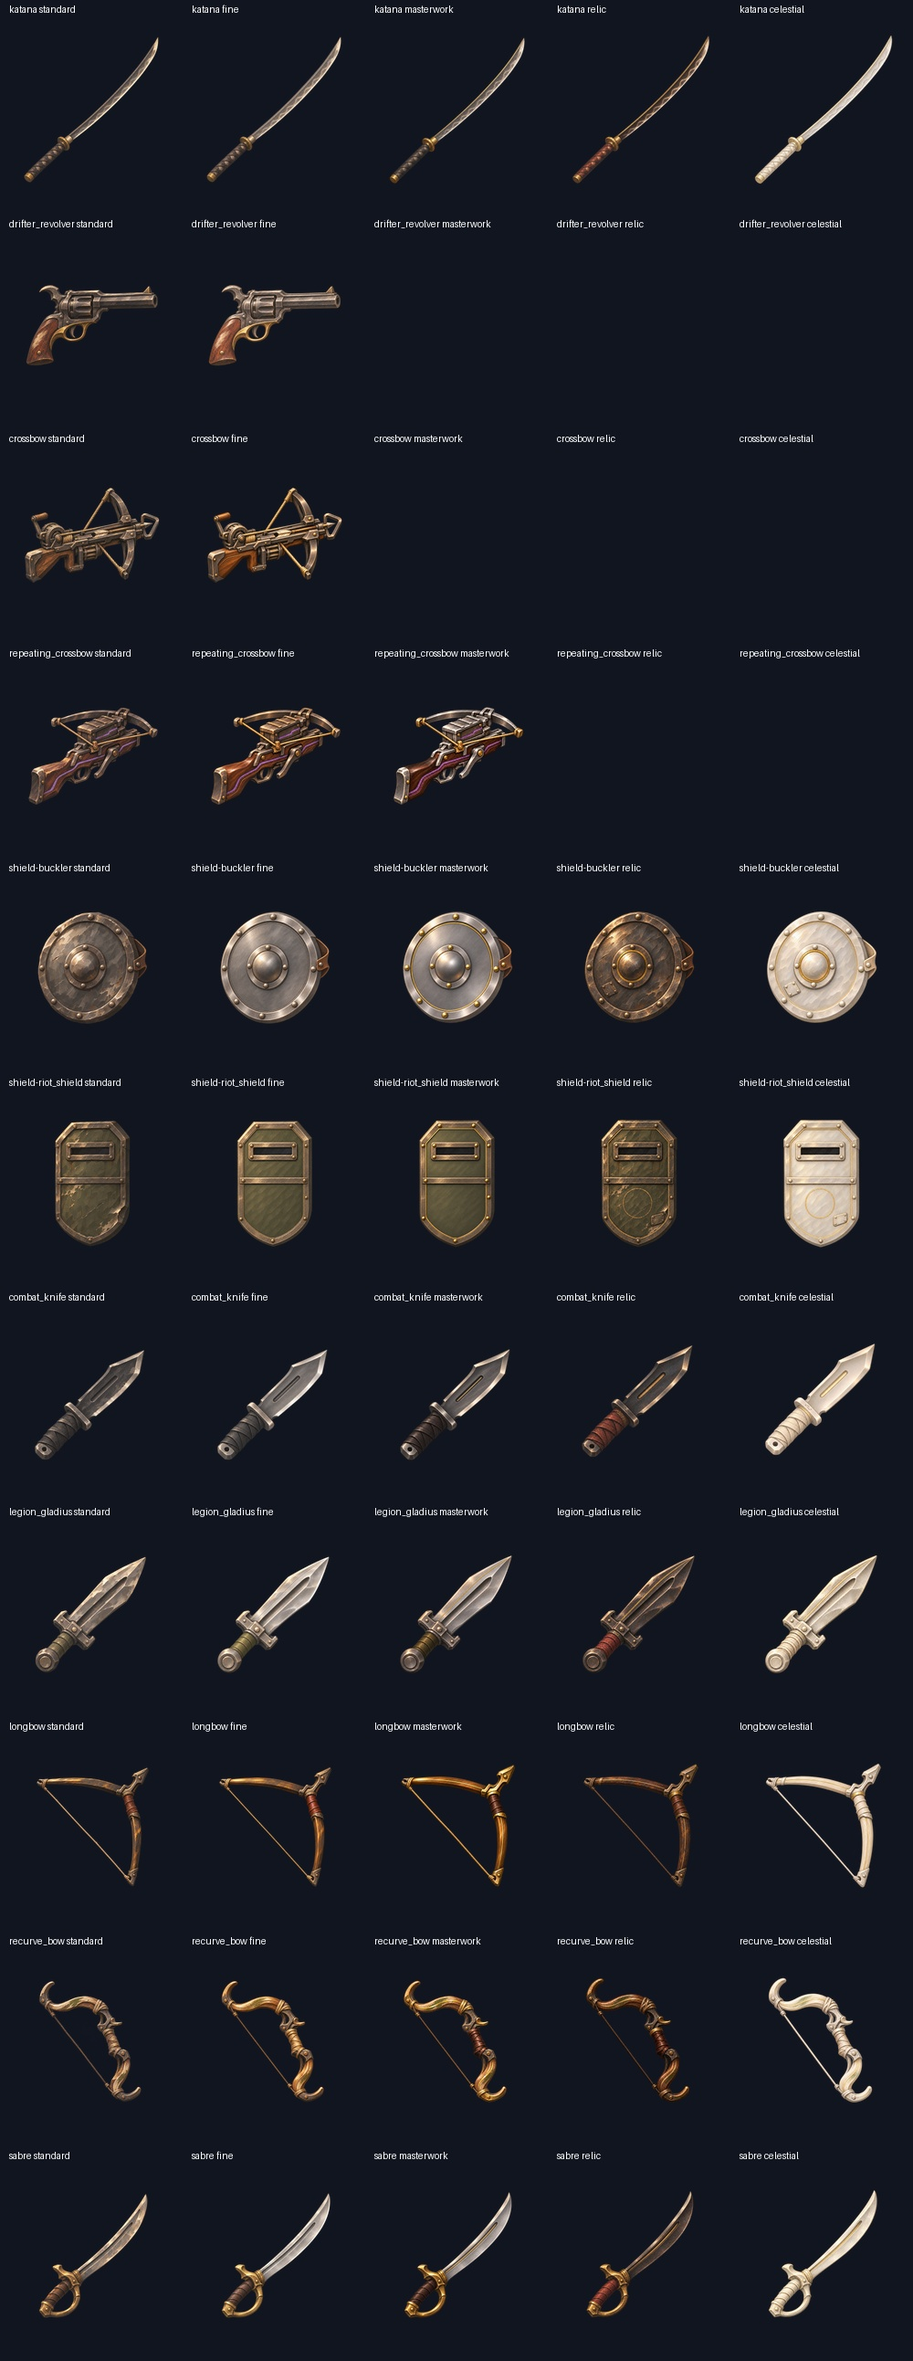
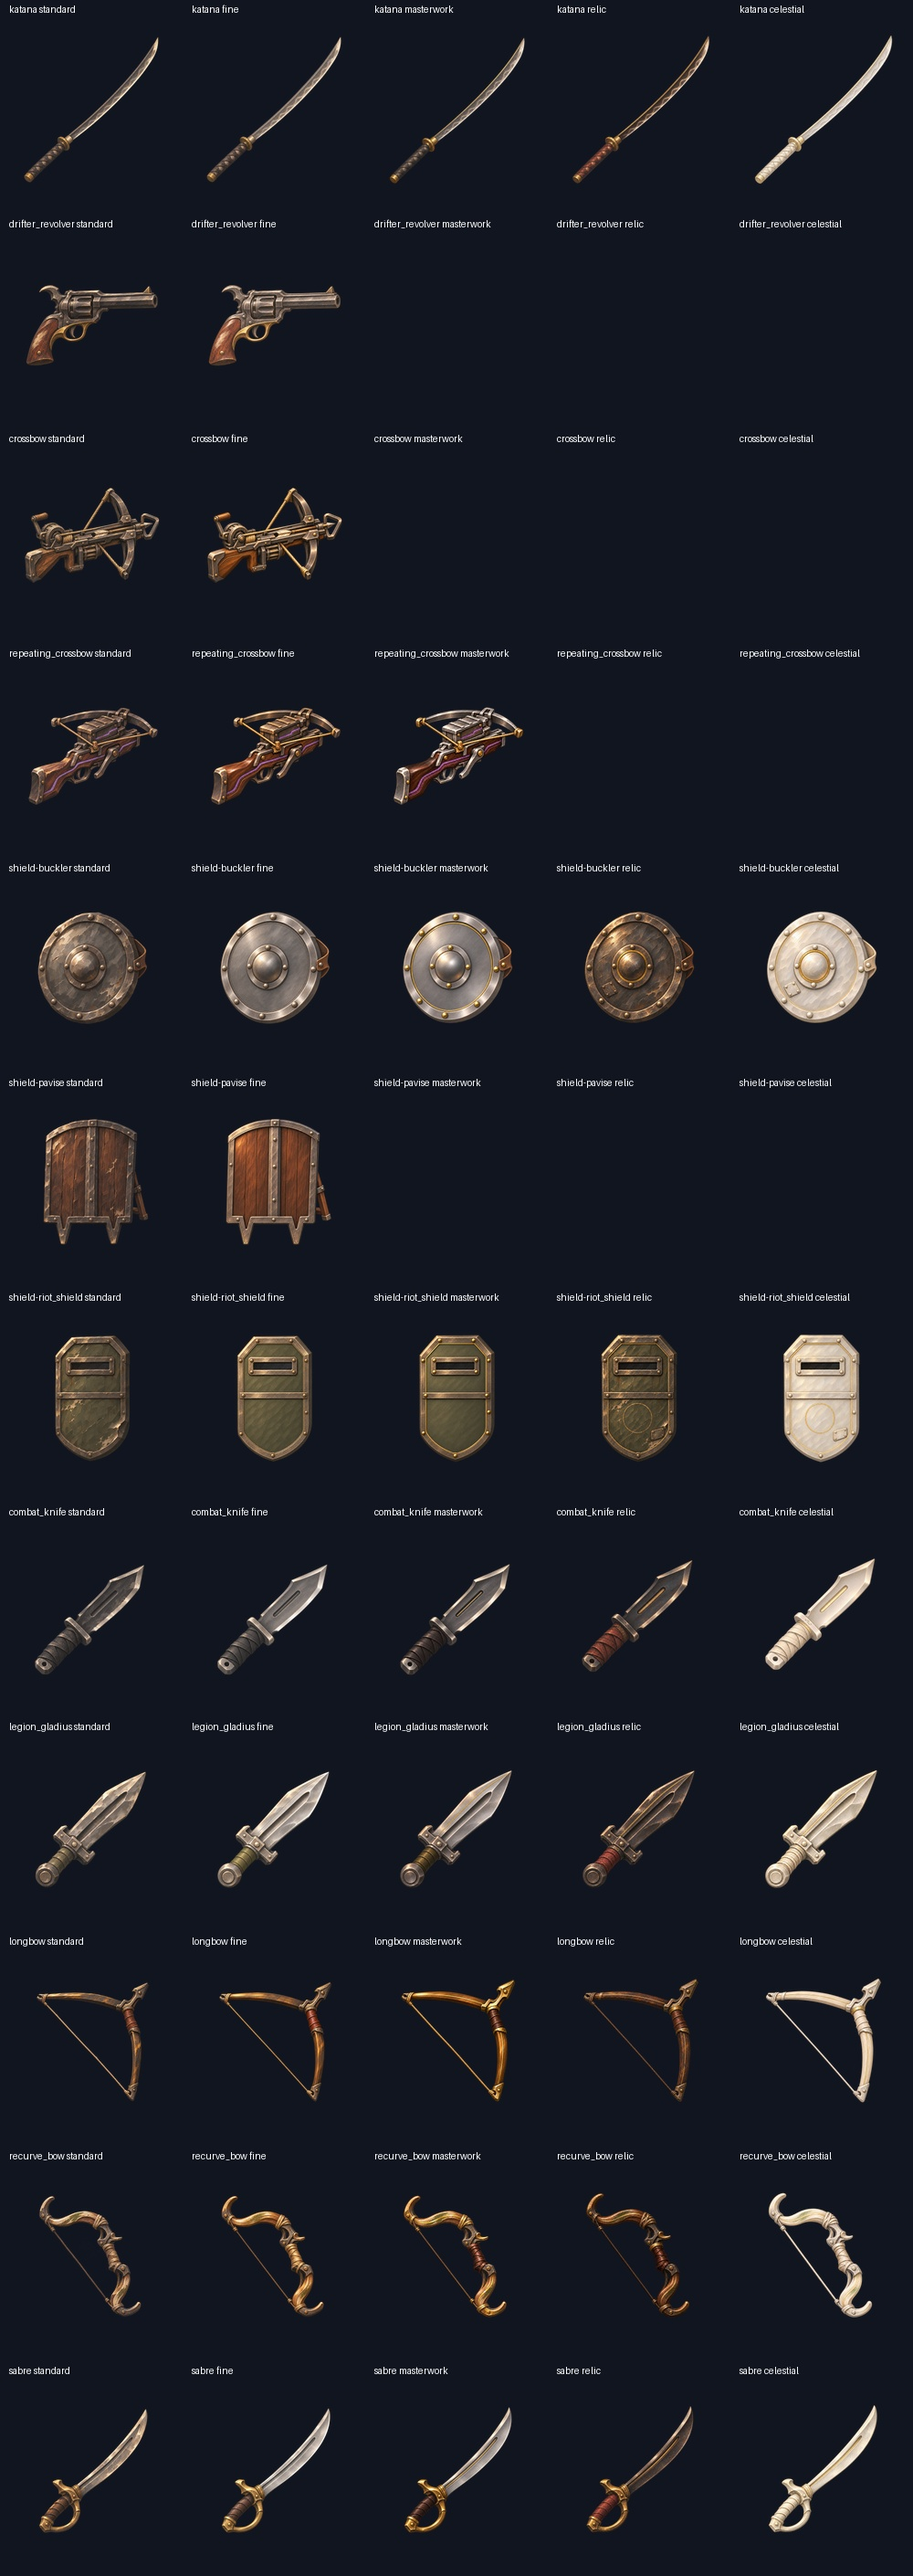
Archive shield-pavise fine grade proof

diff --git a/art/_archive/prompt-pack/2026-11-19-file-08/PROGRESS.md b/art/_archive/prompt-pack/2026-11-19-file-08/PROGRESS.md
@@ -1,5 +1,5 @@
 # Grade proof progress
 
-32 registered review-candidate masters. 38 archived PNG attempts, including earlier Fine trials. The composite shows the current candidate for each finish.
+36 registered review-candidate masters. 39 archived PNG attempts, including earlier Fine trials. The composite shows the current candidate for each finish.
 
 [Proof progress](review/complete-proof-progress.jpg) · [Inventory sizes](review/finish-candidates-small.jpg) · [Claims](WORK-CLAIMS.md) · [Handoff](HANDOFF.md)
